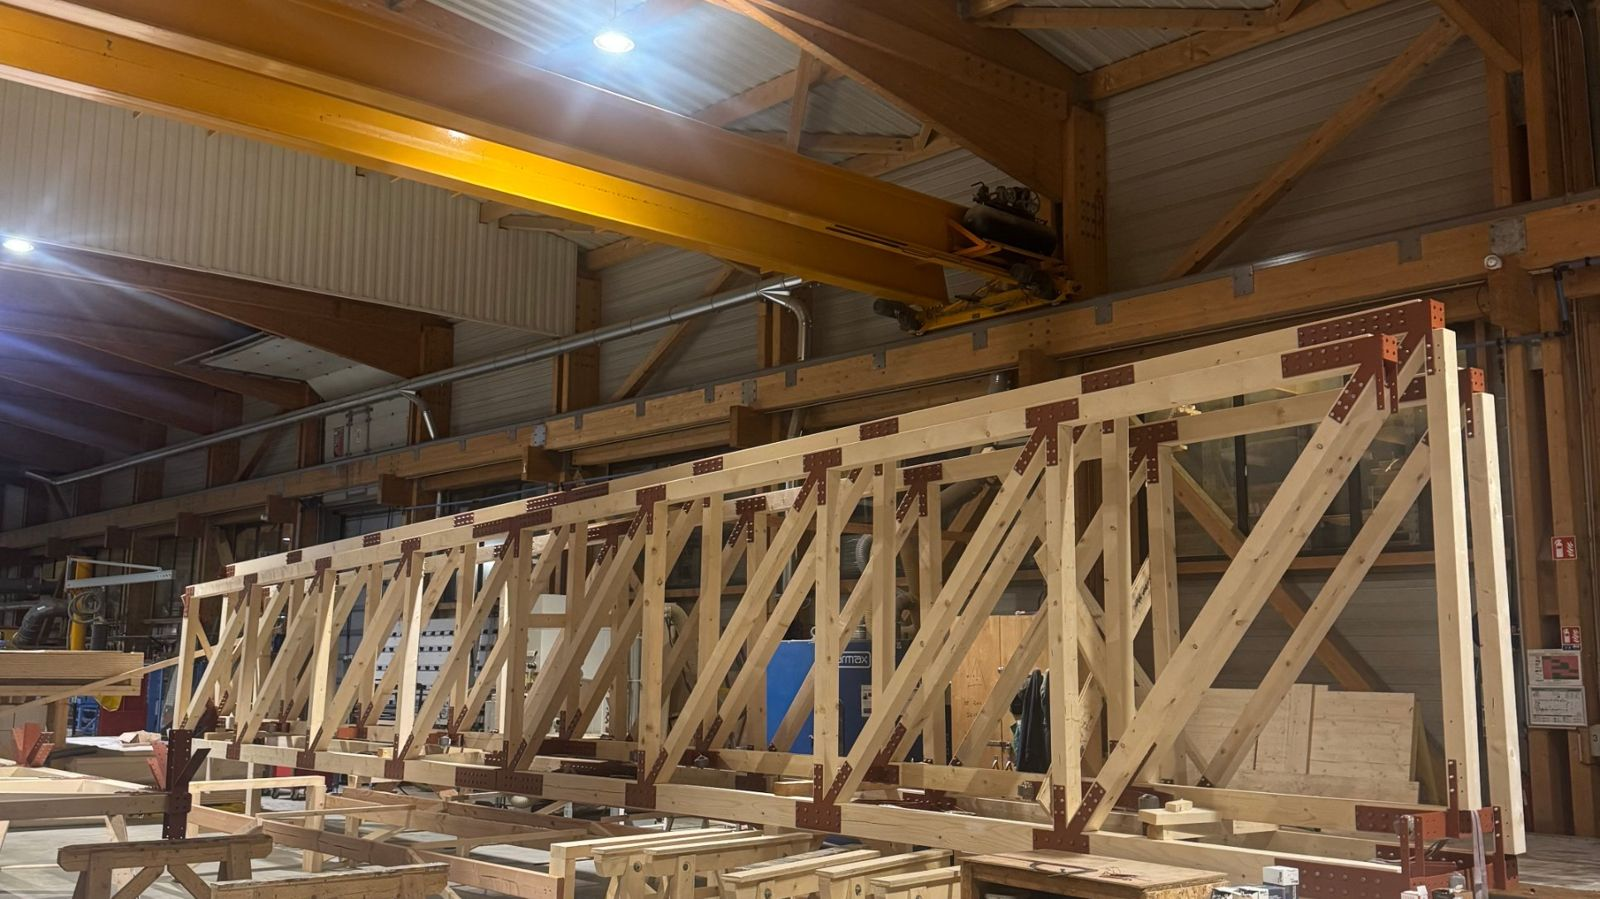
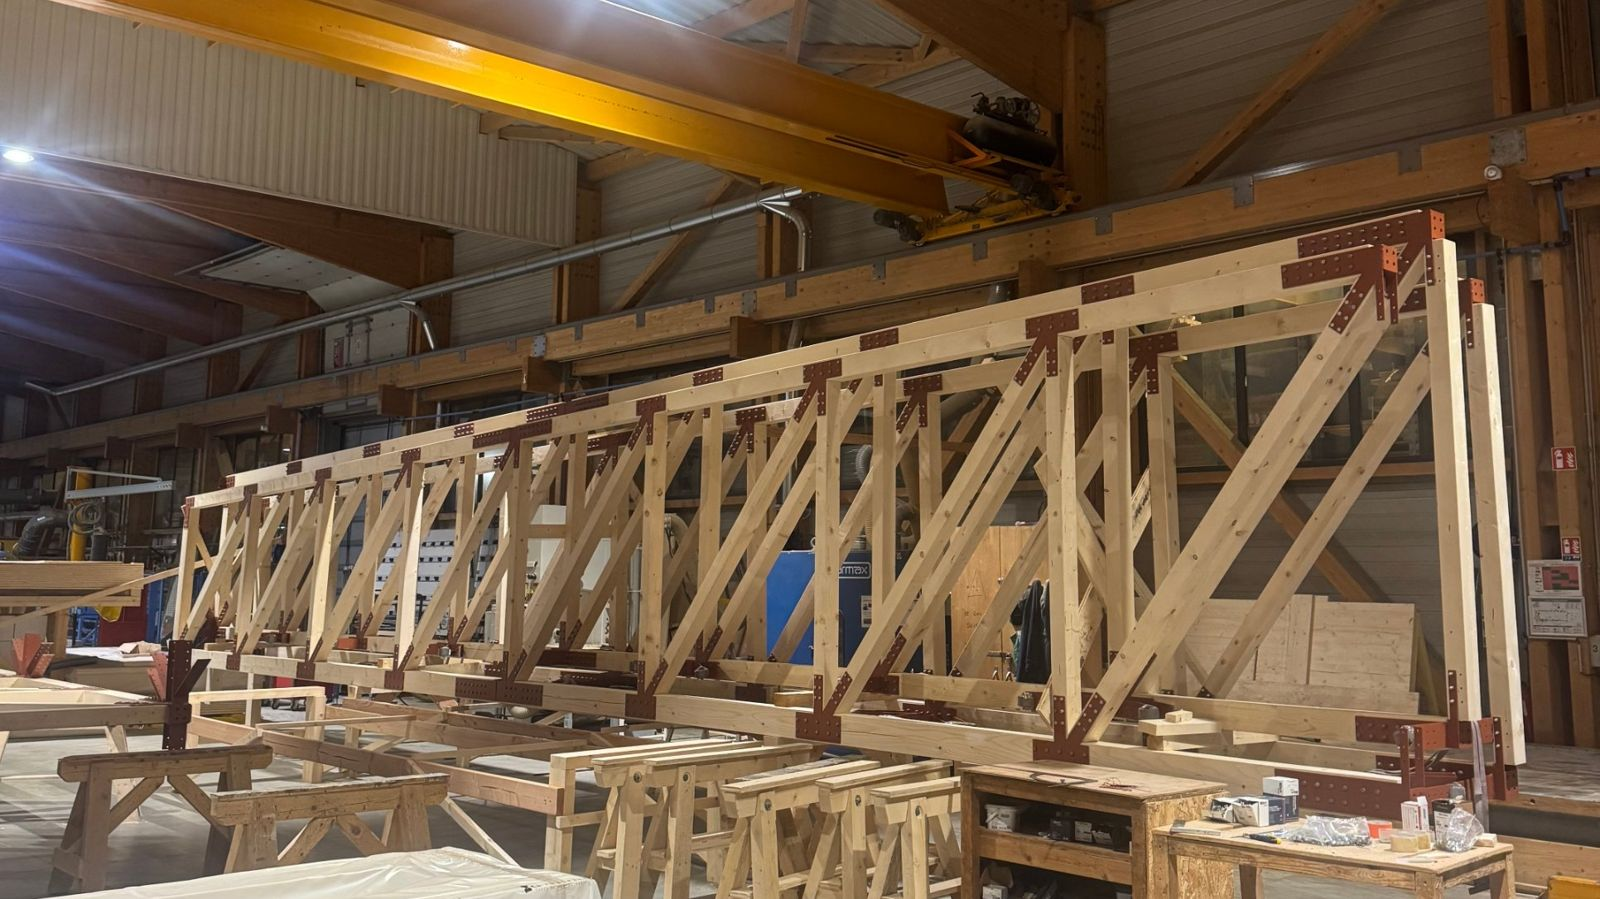
Histoire : bannière recadrée sur les poutres
Claude-Session: https://claude.ai/code/session_01CfFNFfBhVCZ42ebZHS4Zph

diff --git a/histoire.html b/histoire.html
@@ -33,7 +33,7 @@
 </nav>
 
 <header class="page-hero">
-  <img class="page-hero-media" src="assets/images/histoire-hero.jpg" alt="Ferme de charpente en bois en cours d’assemblage à l’atelier" style="object-position:50% 50%">
+  <img class="page-hero-media" src="assets/images/histoire-hero.jpg" alt="Ferme de charpente en bois en cours d’assemblage à l’atelier" style="object-position:50% 60%">
   <div class="wrap page-hero-text">
     <a class="back" href="index.html#histoire">← Retour à l'accueil</a>
     <div class="eyebrow">02 · Histoire</div>
